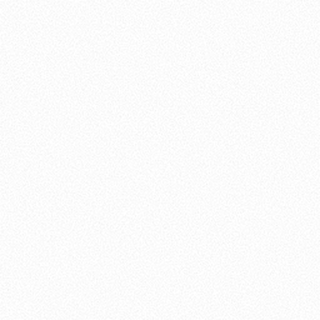
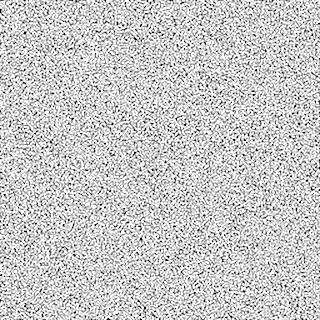
Cleanup

diff --git a/public/style.css b/public/style.css
@@ -6,8 +6,6 @@ body {
     height: 100%;
     margin: 0;
     display: flex;
-    /* background: rgba(232, 235, 237); */
-    /* background: rgba(255, 255, 255, 1.0); */
     background: #222;
 }
 
@@ -27,8 +25,6 @@ body {
     border-radius: min(3px, calc(max(10vw - 10vh, 10vh - 10vw) - 0px));
     background-color: rgba(229, 227, 227, 1.0);
     border: 1px solid rgba(0, 0, 0, 0.02);
-    /* border-bottom: 1px solid rgba(0, 0, 0, 0.1); */
-    /* background: url('./noise.png'); */
 }
 
 #overlay {
@@ -37,7 +33,7 @@ body {
     left: max(5vw - 5vh, 5vh - 5vw);
     width: calc(100% - max(10vw - 10vh, 10vh - 10vw));
     height: calc(100% - max(10vw - 10vh, 10vh - 10vw));
-    background: url('./pen_noise.png');
+    background: url('./noise.png');
     background-repeat: repeat;
     background-size: 25%;
     mix-blend-mode: lighten;

diff --git a/src/index.js b/src/index.js
@@ -27,7 +27,7 @@ const formula = (m, l, t) => {
     t(0.0, 0.1)
     t(-0.1, 0.0)
 
-    return { penColor: 'black', penSize: 0.5, margin: 0.05, resize: true }
+    return { penColor: 'black', penSize: 0.3, margin: 0.05, resize: true }
 }
 
 init(formula)
